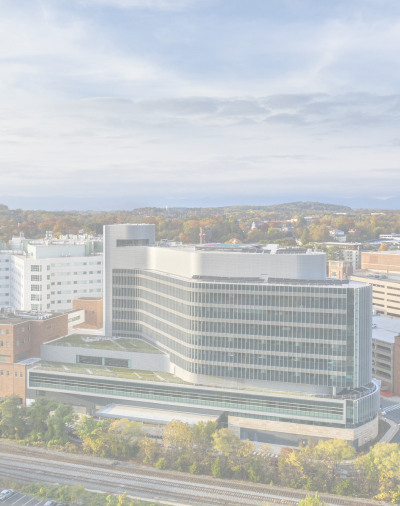
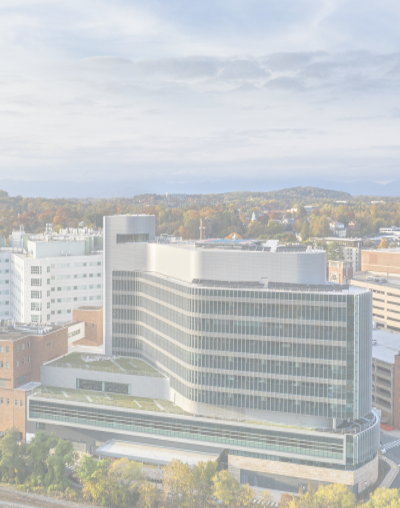
Feat.Login 디자인 완성-SDK

diff --git a/ec2-front/src/views/LoginView.vue b/ec2-front/src/views/LoginView.vue
@@ -1,16 +1,16 @@
 <template>
   <div class="logInPage">
-    <img class="mainPicture" src="../assets/img/hospital.png" style="height: 630px; width: 500px" />
+    <img class="mainPicture" src="../assets/img/hospital.png" style="height: 660px; filter: drop-shadow(2px 0px 10px rgba(0, 0, 0, 0.5))" />
     <div class="logInInfo">
       <div class="logInBox">
         <div v-show="loginAlram" class="logInAlarm">아이디 또는 비밀번호를 확인하세요.</div>
-        <custom-title titleText="로그인"></custom-title>
+        <custom-title titleText="로그인" style="margin-bottom: 50px"></custom-title>
         <div class="logInLabel">아이디</div>
         <div class="logInInput">
           <input type="text" placeholder="아이디를 입력하세요." id="logInInput" class="logInIdInput" />
         </div>
         <div class="logInLabelPw">비밀번호</div>
-        <div class="logInInput">
+        <div class="logInInput" style="margin-bottom: 30px">
           <input type="password" id="logInpageInput" @keyup.enter="loginMember()" placeholder="비밀번호를 입력하세요." class="logInPwInput" />
         </div>
         <customButton btnText="로그인" class="idPwSearch" @click="loginMember()"></customButton>
@@ -28,21 +28,24 @@ export default {};
 .mainPicture,
 .logInInfo {
   display: flex;
-  width: 40%;
-  height: 100%;
+  width: 100%;
+  height: 660px;
+  justify-content: center;
+  vertical-align: middle;
 }
 .logInPage {
   display: flex;
+  height: 100%;
+  width: 100%;
   justify-content: center;
-  height: 85%;
 }
 .logInBox {
   box-sizing: border-box;
   position: relative;
-  width: 100%;
+  width: 70%;
   height: 50%;
+  margin-top: 13%;
   top: 0;
-  vertical-align: middle;
 }
 .logInAlarm {
   display: flex;

diff --git a/ec2-front/src/App.vue b/ec2-front/src/App.vue
@@ -15,6 +15,7 @@ body {
   -moz-osx-font-smoothing: grayscale;
   text-align: center;
   color: #2c3e50;
+  height: 100%;
 }
 
 @font-face {
